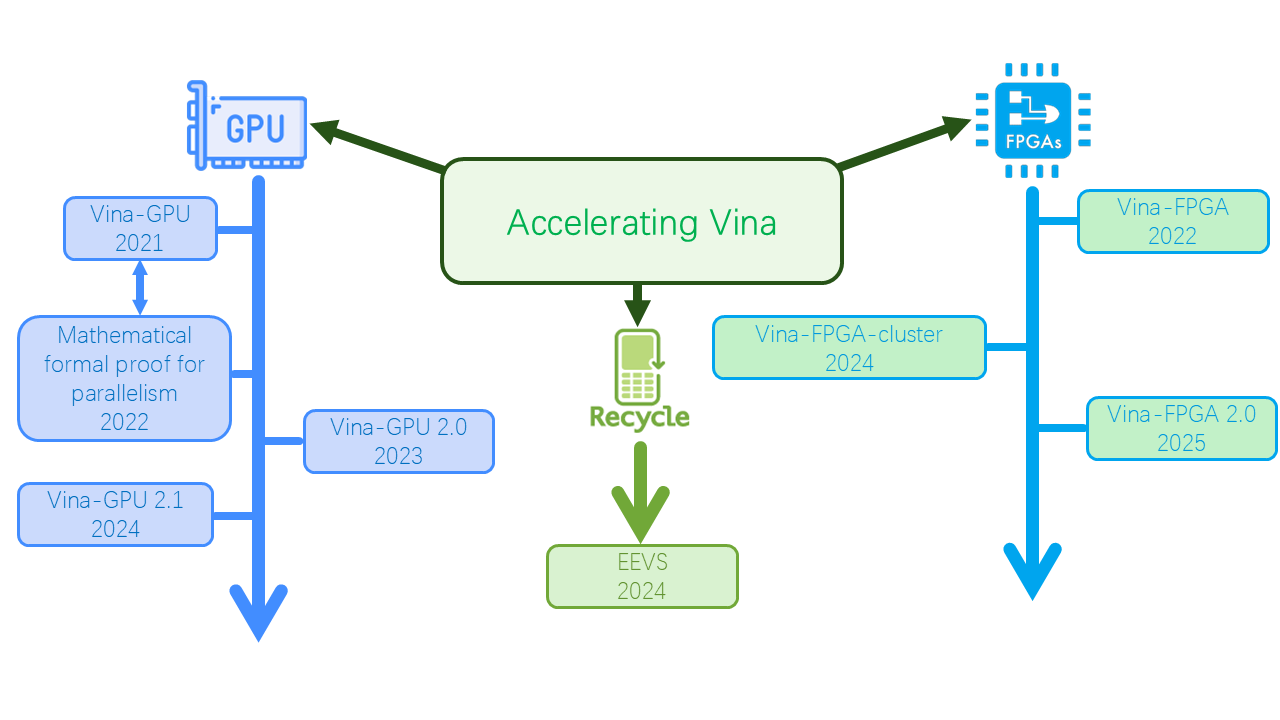
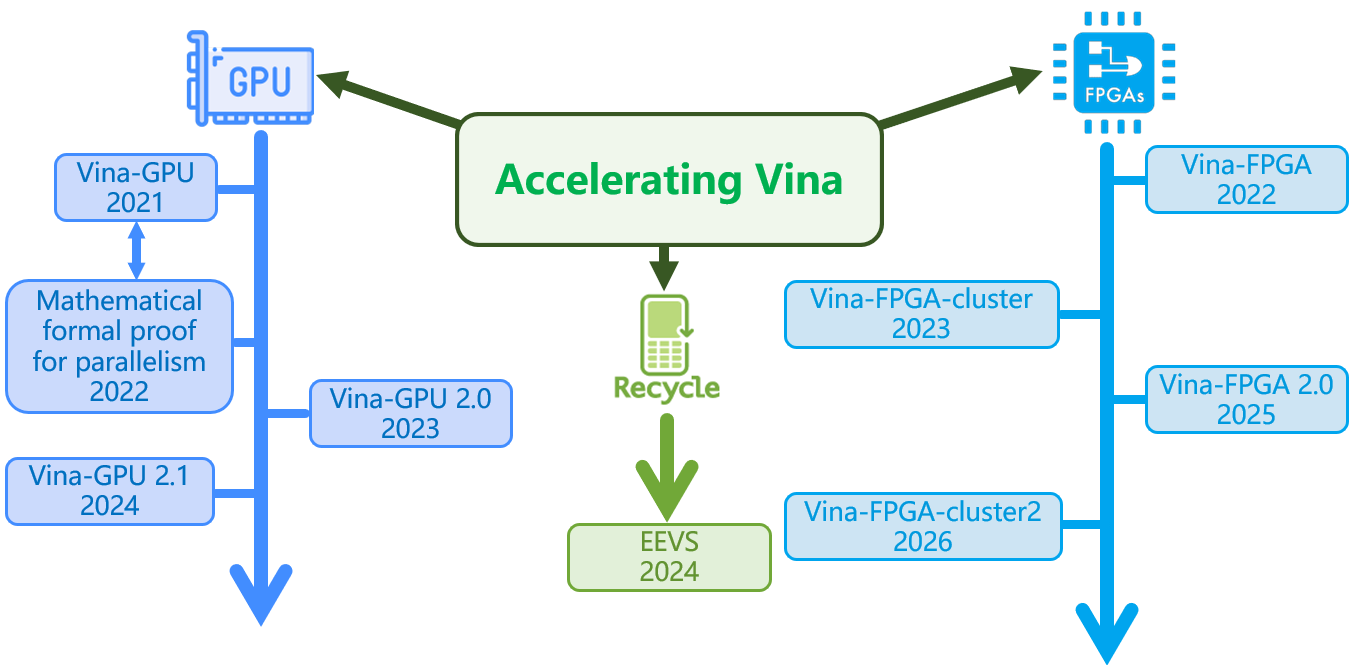
update index publist and vina

Changed region(s): [[0.0, 0.0, 1.0, 1.0]]

diff --git a/index.html b/index.html
@@ -18,6 +18,14 @@ layout: default
     <div class="rollbar-item">
       <div class="rollbar-date">11/2025</div>
       <div class="rollbar-text">
+        🎉 Our works (<a href="https://www.date-conference.com/author-notification-d-t-and-e-tracks">Equicore</a> & <a href="https://www.date-conference.com/author-notification-d-t-and-e-tracks">Vina-FPGA-cluster2</a>) have been accepted by 
+        <a href="https://www.date-conference.com/">DATE 2026</a>
+      </div>
+    </div>
+
+    <div class="rollbar-item">
+      <div class="rollbar-date">11/2025</div>
+      <div class="rollbar-text">
         🎉 We won the 🥇1st place🥇 (🏆gold award🏆) in the AI for Science High-Performance Optimization Group of the 
         <a href="https://www.bohrium.com/competitions/4631426357?tab=leaderboard">2nd Global Digital Intelligence Education Innovation Competition</a>
       </div>
@@ -146,30 +154,6 @@ layout: default
       <div class="rollbar-text">
         🎉 Our work (<a href="https://ieeexplore.ieee.org/document/10993065">ATE-GCN</a>) has been accepted by 
         <a href="https://www.date-conference.com/">DATE 2025</a>
-      </div>
-    </div>
-
-    <div class="rollbar-item">
-      <div class="rollbar-date">07/2024</div>
-      <div class="rollbar-text">
-        I'm serving as a reviewer for the 
-        <a href="https://apccas2024.org/">APCCAS 2024</a>
-      </div>
-    </div>
-
-    <div class="rollbar-item">
-      <div class="rollbar-date">07/2024</div>
-      <div class="rollbar-text">
-        I'm serving as a reviewer for the 
-        <a href="https://2024.ieee-biocas.org/">BIOCAS 2024</a>
-      </div>
-    </div>
-
-    <div class="rollbar-item">
-      <div class="rollbar-date">07/2024</div>
-      <div class="rollbar-text">
-        🎉 Our survey (<a href="https://dl.acm.org/doi/10.1145/3687480">FPGA-Based Sparse Matrix Multiplication Accelerators</a>) has been accepted by 
-        <a href="https://dl.acm.org/journal/trets">TRETS</a>
       </div>
     </div>
 

diff --git a/_sass/_rollbar.scss b/_sass/_rollbar.scss
@@ -101,7 +101,7 @@
   flex: 0 0 140px;
   text-align: right;
   white-space: nowrap;
-  font-size: 14px;
+  font-size: 1.05em;
 
   /* 与 Latest News 日期相同的效果 */
   font-weight: bold;

diff --git a/publications.md b/publications.md
@@ -8,6 +8,7 @@ permalink: /publications/
     <label for="year-select" style="margin-right: 5px; color: black;">Quick view by year:</label>
     <select id="year-select" onchange="scrollToYear(event)">
         <option value="">Select a year</option>
+        <option value="year-2026">2026</option>
         <option value="year-2025">2025</option>
         <option value="year-2024">2024</option>
         <option value="year-2023">2023</option>
@@ -16,6 +17,56 @@ permalink: /publications/
     </select>
 </div>
 
+<a id="year-2026" style="scroll-margin-top: 70px;"></a>
+
+2026
+======  
+------
+<div style="padding: 15px; margin-bottom: 20px; display: flex;">
+  <div style="flex: 0 0 80px;">
+    <span
+      style="
+        display: inline-block;
+        width: 80px;              
+        box-sizing: border-box;    
+        text-align: center;
+        background-color: #070;
+        color: #fff;
+        padding: 3px 8px;
+        font-size: 14px;
+        font-weight: bold;
+        border-radius: 3px;
+      ">DATE</span>
+    </div>
+    <div style="flex: 1; padding-left: 20px;">
+        <h3 style="margin: 0;font-style: normal;font-weight: 600;">Breaking the BRAM Wall: Scalable Vina FPGA Acceleration via Distributed Grid Storage and Cross-Board Long-Ring Pipelines</h3>
+        <p style="margin: 5px 0;">DOI: <a href="https://www.date-conference.com/author-notification-d-t-and-e-tracks" >TBD</a></p>
+        <p style="margin: 5px 0;"><i>2026 Design, Automation & Test in Europe Conference & Exhibition</i></p>
+    </div>
+</div>
+
+<div style="padding: 15px; margin-bottom: 20px; display: flex;">
+  <div style="flex: 0 0 80px;">
+    <span
+      style="
+        display: inline-block;
+        width: 80px;              
+        box-sizing: border-box;    
+        text-align: center;
+        background-color: #070;
+        color: #fff;
+        padding: 3px 8px;
+        font-size: 14px;
+        font-weight: bold;
+        border-radius: 3px;
+      ">DATE</span>
+    </div>
+    <div style="flex: 1; padding-left: 20px;">
+        <h3 style="margin: 0;font-style: normal;font-weight: 600;">Equicore: Accelerating Clebsch-Gordan Tensor Product of Equivariant Neural Networks on FPGA</h3>
+        <p style="margin: 5px 0;">DOI: <a href="https://www.date-conference.com/author-notification-d-t-and-e-tracks" >TBD</a></p>
+        <p style="margin: 5px 0;"><i>2026 Design, Automation & Test in Europe Conference & Exhibition</i></p>
+    </div>
+</div>
 
 
 <a id="year-2025" style="scroll-margin-top: 70px;"></a>

diff --git a/representative/Vina.md b/representative/Vina.md
@@ -84,6 +84,7 @@ by leveraging
   <div class="paper-section">
     <h4 class="project-sub-title">Publications</h4>
     <ul>
+      <li><strong>Breaking the BRAM Wall: Scalable Vina FPGA Acceleration via Distributed Grid Storage and Cross-Board Long-Ring Pipelines</strong><br><em>DATE, 2026</em></li>
       <li><strong>Vina-FPGA 2.0: A High-Level Parallelized Hardware-Accelerated Molecular Docking Tool Based on Inter-Module Pipeline</strong><br><em>FITEE, 2025</em></li>
       <li><strong><a href="https://ieeexplore.ieee.org/abstract/document/10500753" target="_blank">Vina-FPGA-Cluster: Multi-FPGA Based Molecular Docking Tool with High-Accuracy and Multi-Level Parallelism</a></strong><br><em>TBioCAS, 2024</em></li>
       <li><strong><a href="https://ieeexplore.ieee.org/document/9940230" target="_blank">Vina-FPGA: A Hardware-Accelerated Molecular Docking Tool With Fixed-Point Quantization and Low-Level Parallelism</a></strong><br><em>TVLSI, 2023</em></li>
